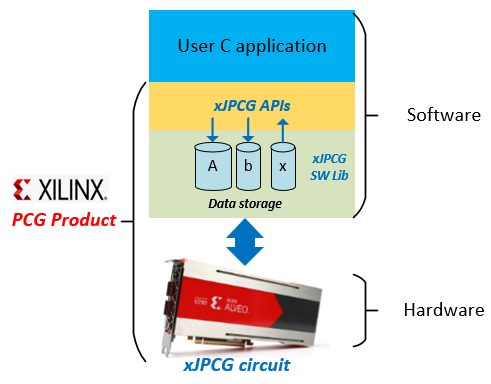
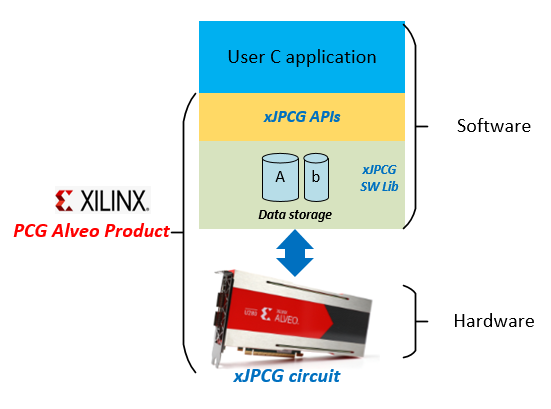
modify doc

diff --git a/docs/src/overview.rst b/docs/src/overview.rst
@@ -49,23 +49,23 @@ The algorithm below describes a PCG solver with Jacobi preconditioner, referred 
    
    Algorithm source: https://en.wikipedia.org/wiki/Conjugate_gradient_method#The_preconditioned_conjugate_gradient_method 
 
-As shown below, the Xilinx PCG product currently provides a set of C functions 
-called xJPCG APIs to offload the JPCG solver from users' C applicaiton to Xilinx Alveo U280 card.
-The offloading process is essentially a data transfer process between the software and hardward 
-components of Xilinx PCG product. The hardware component, also called xJPCG circuit, realizes JPCG solver
+As shown below, the Xilinx PCG Alveo product currently provides a set of C functions 
+called xJPCG APIs to offload the JPCG solver from users' C applicaiton to Xilinx Alveo U280 accelerator card.
+The offloading process is essentially a data transfer process between the software and hardware 
+components of Xilinx PCG Alveo product. The hardware component, also called xJPCG circuit, realizes JPCG solver
 on the Alveo card. The software component also called xJPCG software library transfers the input data, namely
 matrix A and right hand vector b to the xJPCG circuit, and read the solution, the x vector back from the xJPCG circuit.
 
 .. figure:: /images/PCG_stack.png
-   :alt: PCG product diagram
+   :alt: PCG Alveo product diagram
    :scale: 100%
    :align: center
 
-Run JPCG on Alveo U280 Card
-----------------------------
+Run JPCG on Alveo U280 Accelerator Card
+----------------------------------------
 
 The `Xilinx® Alveo™ U280 Data Center accelerator cards <https://www.xilinx.com/products/boards-and-kits/alveo/u280.html>`_
-provides optimized accelerator across a wide range of workload. Alveo U280 is 
+provide optimized acceleration across a wide range of workload. Alveo U280 accelerator card is 
 designed for deployment in any server with the following features:
 
 * Built on Xilinx UltraScale+ architecture 
@@ -74,4 +74,4 @@ designed for deployment in any server with the following features:
 * PCIe Gen4
 * HBM  
 
-An example is included in this repository to show the general usage model of accelerating JPCG solver on Alveo U280 card. 
+An example is included in this repository to show the general usage model of accelerating JPCG solver with the Xilinx PCG Alveo product. 

diff --git a/docs/src/pcg_userGuide.rst b/docs/src/pcg_userGuide.rst
@@ -21,7 +21,20 @@ PCG Product User Guide
 
 The PCG Product allows you to use a Xilinx Alveo accelerator card to solve huge number of linear equations,
 which are normally represented as Ax = b. Here A is a sparse coefficient matrix, which has multi-million dimensions
-and hundred of millions none-zero entries; b is a dense vector; and x is the dense vector returned by the PCG product.
+and multi-million none-zero entries; b is a dense vector; and x is the dense vector returned by the PCG product.
+
+Using C APIs
+==================
+
+Alveo accelerator card storage capacity
+========================================
+
+Error handling
+==============
+
+Linking your application
+========================
+
 
 .. toctree::
       :maxdepth: 2 

diff --git a/docs/src/pcg_api.rst b/docs/src/pcg_api.rst
@@ -13,26 +13,6 @@
    See the License for the specific language governing permissions and
    limitations under the License.
 
-******************
-xJPCG User Guide
-******************
-
-Overview
-=========
-
-Using C APIs
-==================
-
-Alveo accelerator card storage capacity
-========================================
-
-Error handling
-==============
-
-Linking your application
-========================
-
-
 *********************
 xJPCG API reference 
 *********************
